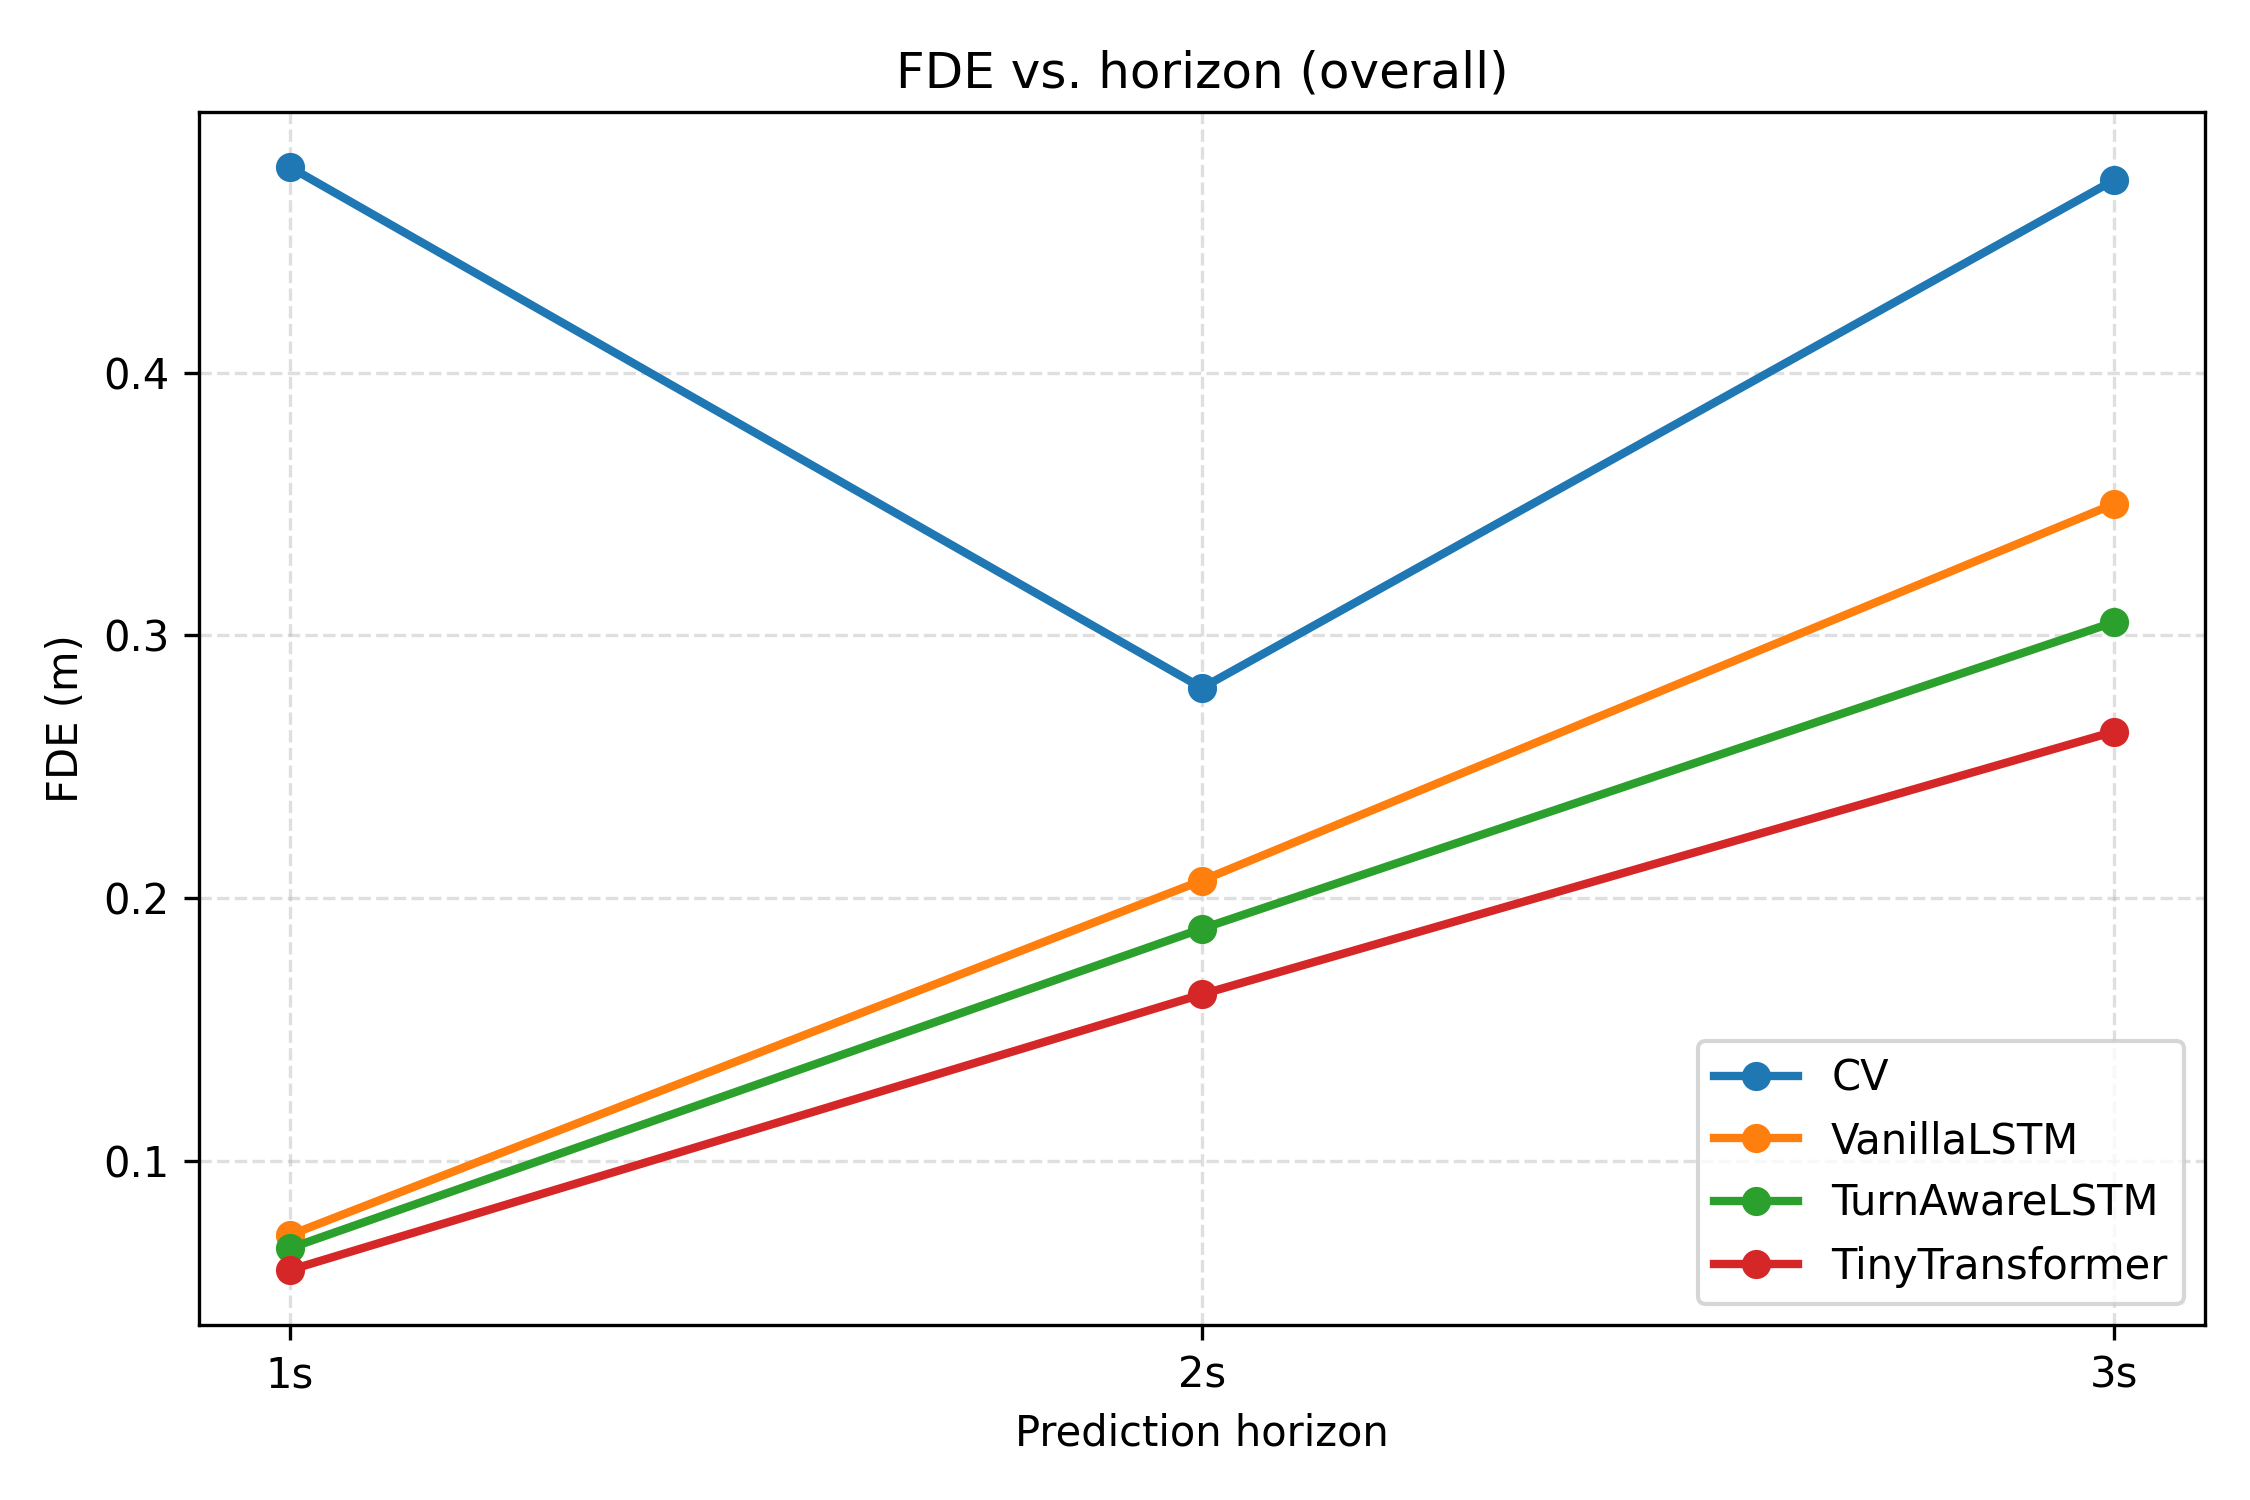
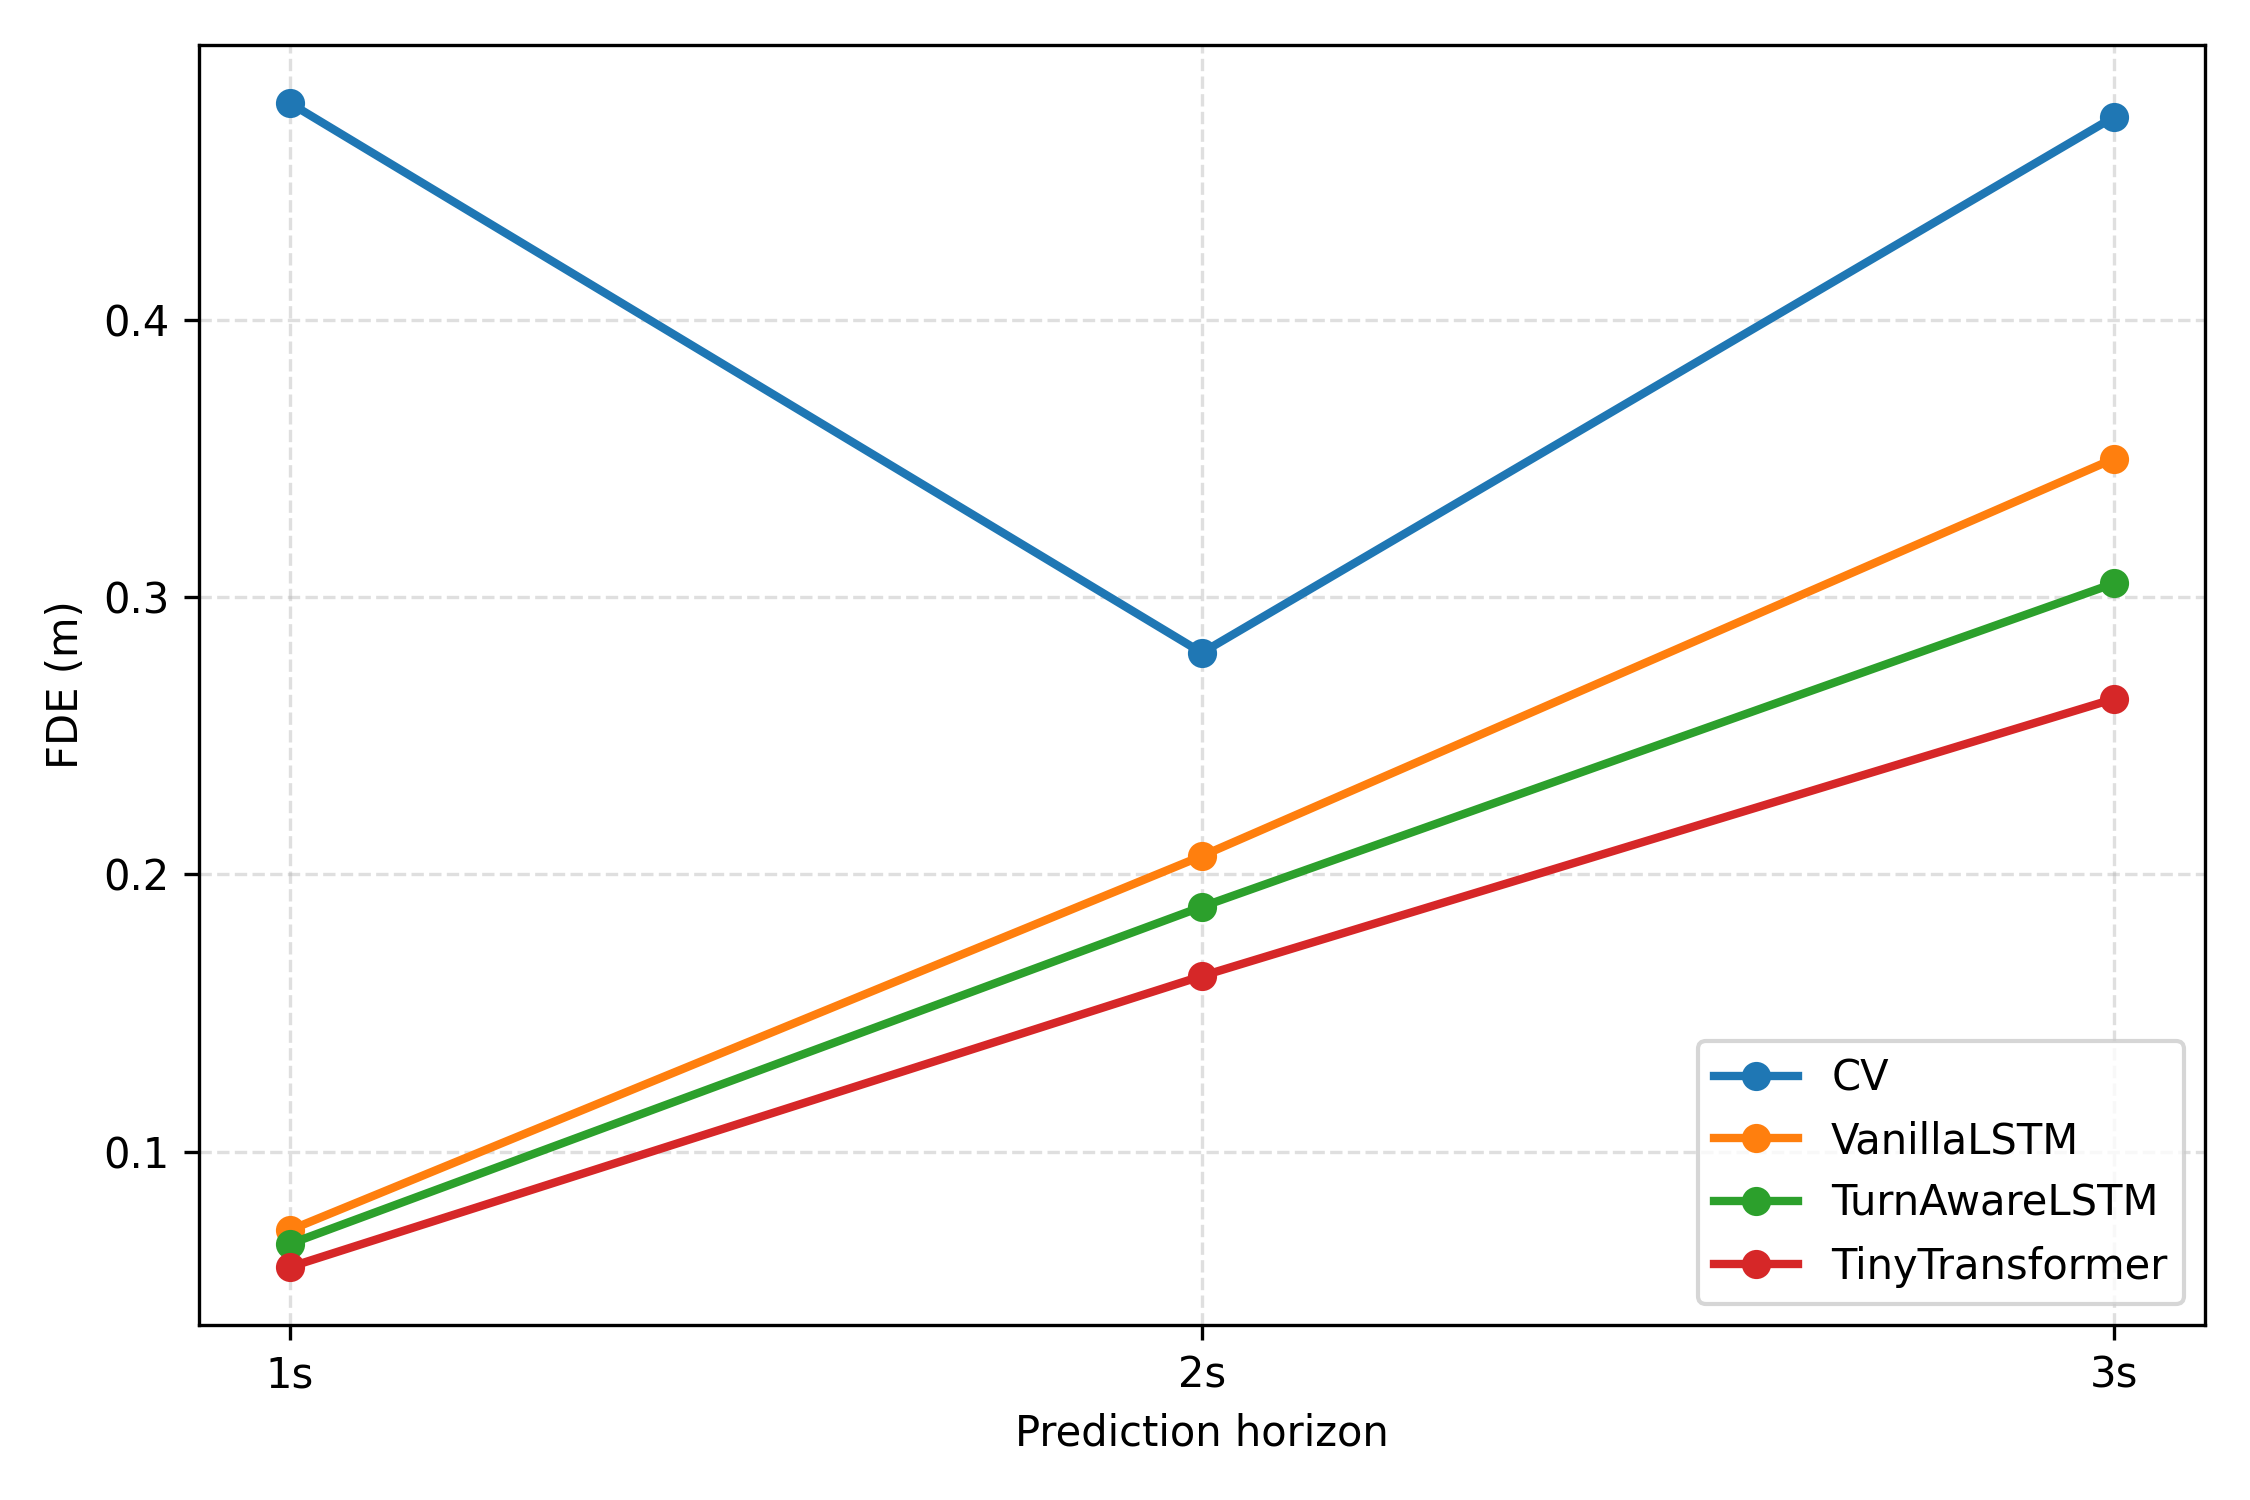
new comp results

diff --git a/results/plot_avg.py b/results/plot_avg.py
@@ -1,7 +1,8 @@
-import pandas as pd
-import numpy as np
-import matplotlib.pyplot as plt
 from pathlib import Path
+
+import matplotlib.pyplot as plt
+import numpy as np
+import pandas as pd
 
 CSV_PATH = Path("results_overall.csv")
 OUT_DIR = Path("figs")
@@ -35,7 +36,6 @@ def plot_metric(metric: str, ylabel: str, fname: str):
     )
     plt.xlabel("Prediction horizon")
     plt.ylabel(ylabel)
-    plt.title(f"{metric} vs. horizon (overall)")
     plt.grid(True, linestyle="--", alpha=0.4)
     plt.legend()
     plt.tight_layout()

diff --git a/results/plot_maneuver_concise.py b/results/plot_maneuver_concise.py
@@ -68,7 +68,7 @@ def plot_metric_grid(metric: str, save_path: Path):
             offset = (j - (len(available_models) - 1) / 2.0) * bar_width
             ax.bar(x + offset, vals[:, j], width=bar_width, label=mod)
 
-        ax.set_title(f"{metric} @ {int(H)}s")
+        ax.set_title(f"{metric} at {int(H)}s")
         ax.set_xticks(x, ["straight", "left", "right"])
         ax.grid(axis="y", linestyle="--", alpha=0.35)
 
